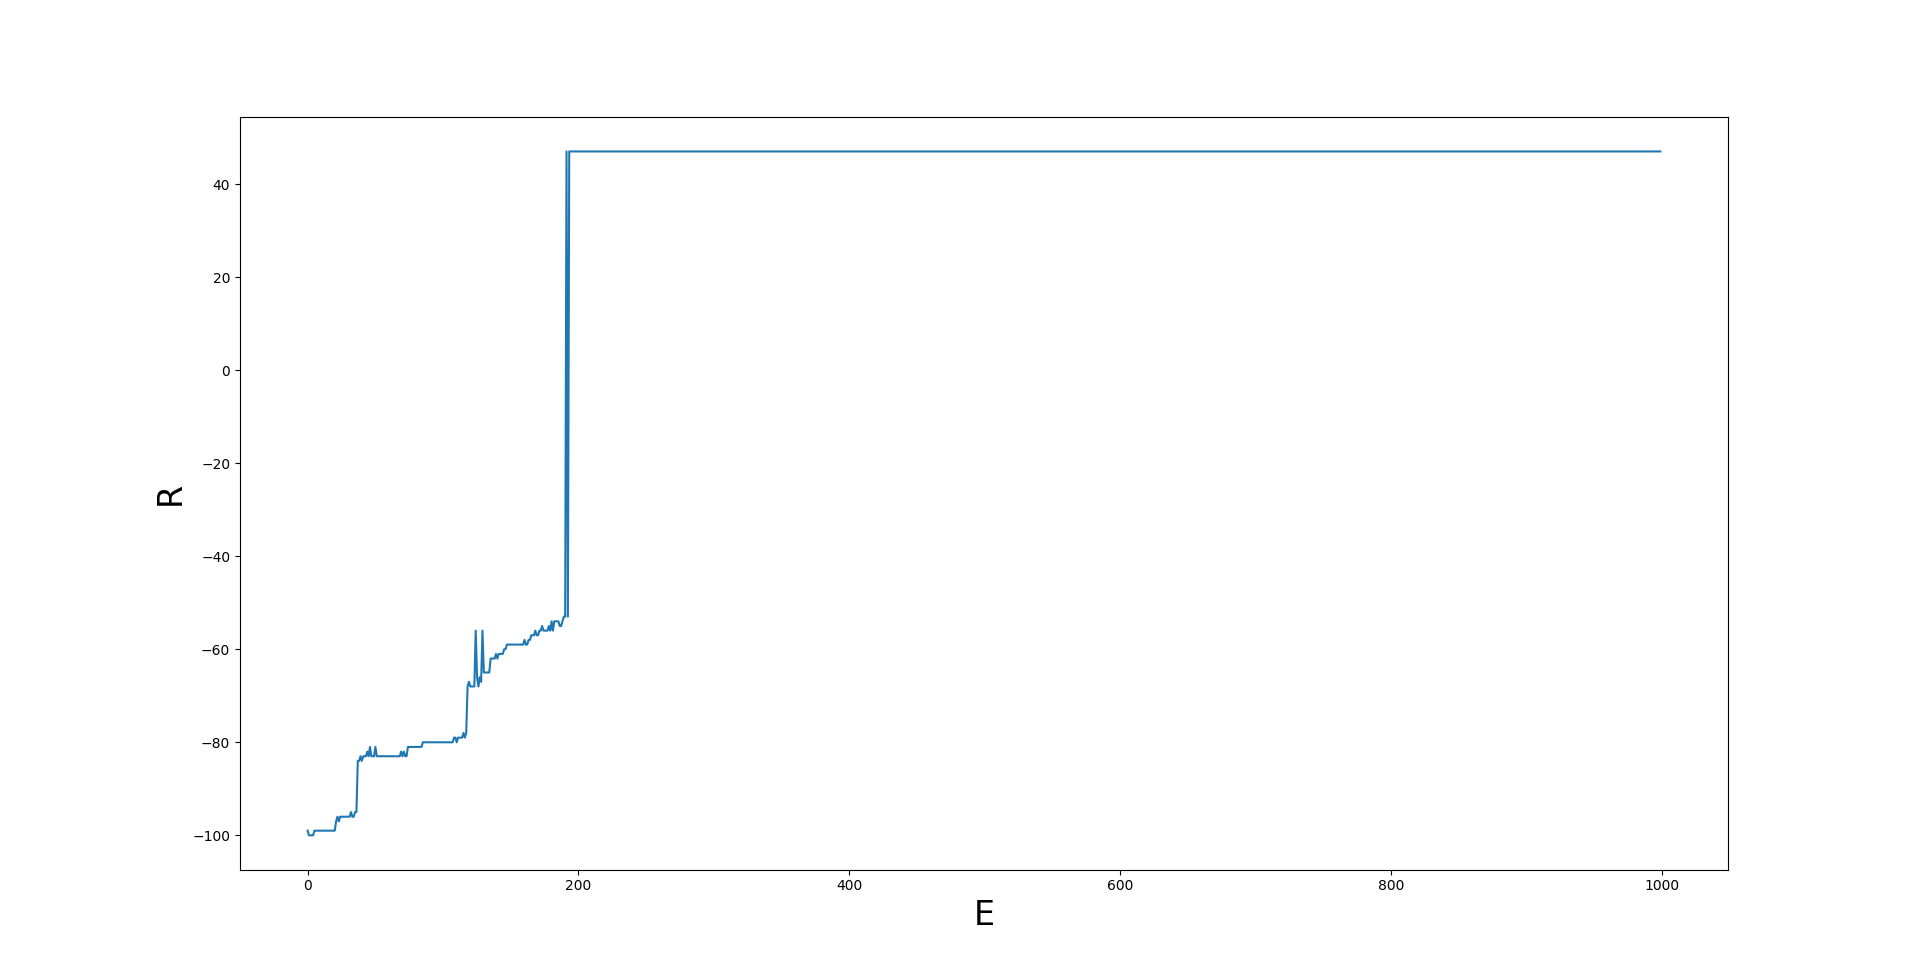
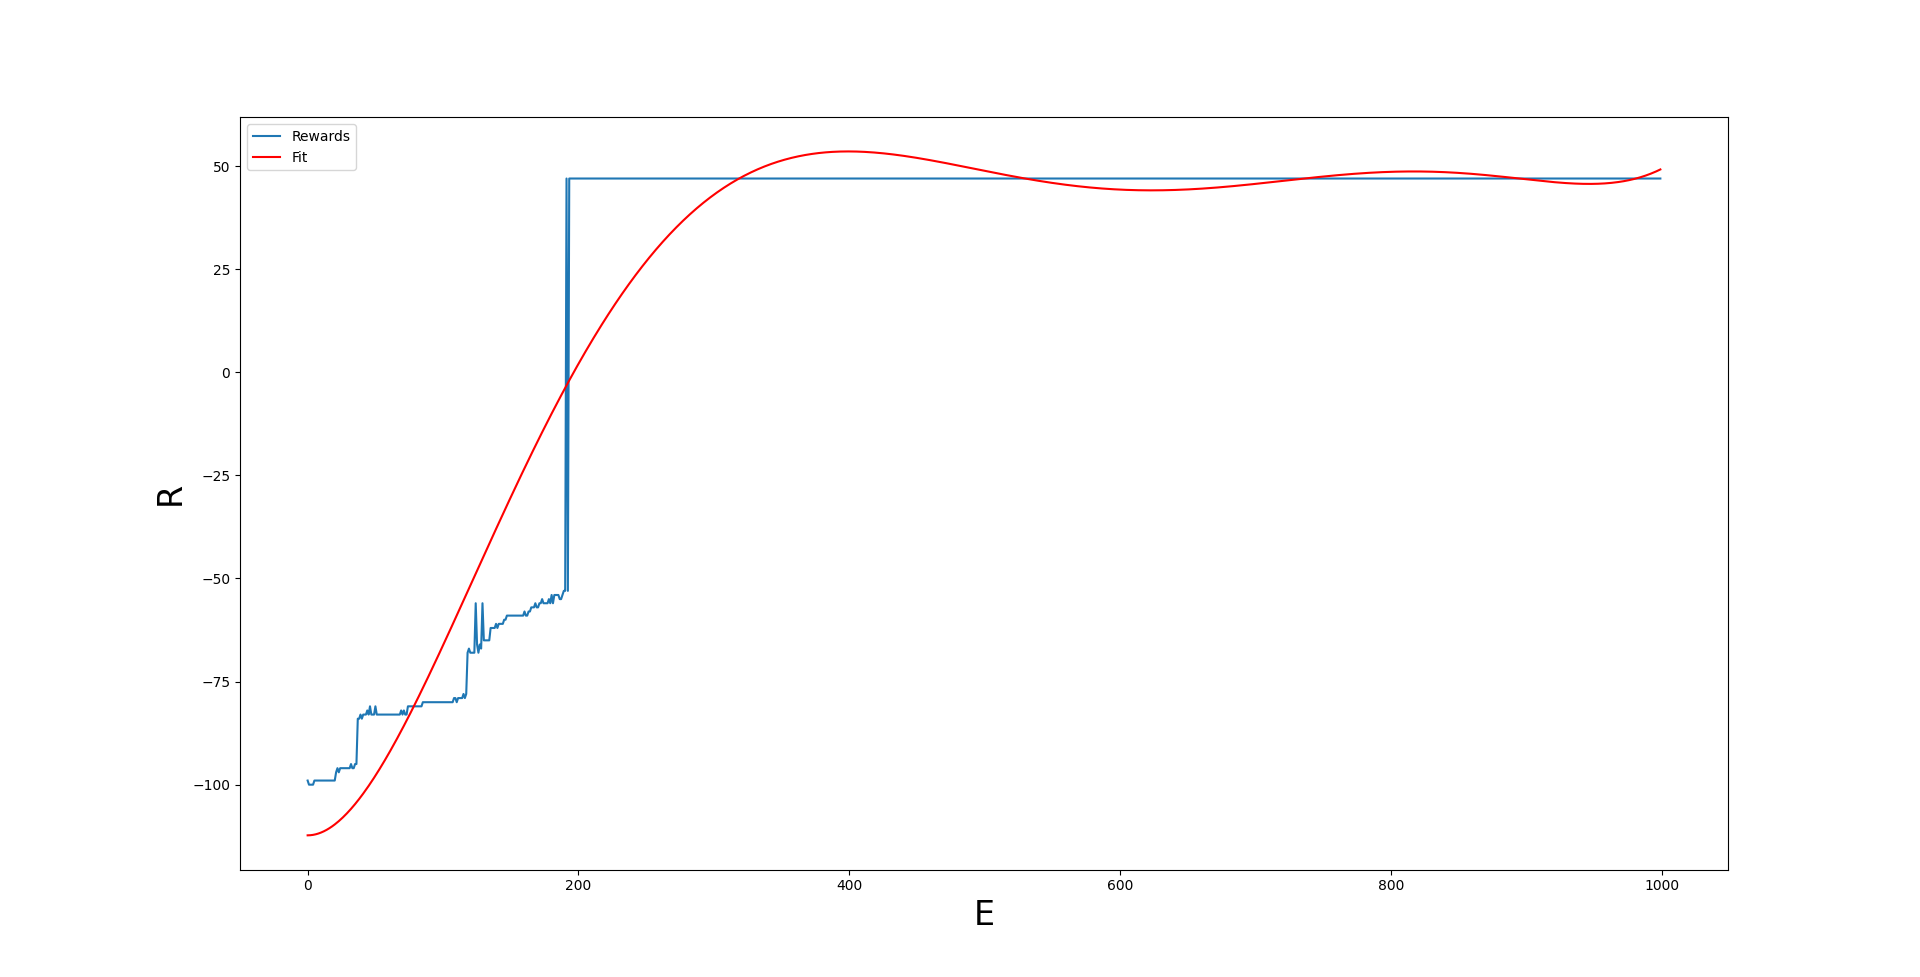
fixed figuresd

diff --git a/Problem B/plotGraphs.py b/Problem B/plotGraphs.py
@@ -1,8 +1,13 @@
+from datetime import time
 from matplotlib import pyplot as plt
 import numpy as np
 from numpy.core.fromnumeric import size
 import pandas as pd
-from scipy.signal import lfilter
+import operator
+
+from sklearn.linear_model import LinearRegression
+from sklearn.metrics import mean_squared_error, r2_score
+from sklearn.preprocessing import PolynomialFeatures
 
 
 def task1a():
@@ -11,10 +16,30 @@ def task1a():
     n_episodes = len(rewards)
     episodes = np.linspace(0,n_episodes, n_episodes)
 
-    plt.plot(episodes, rewards)
+    plt.plot(episodes, rewards, label="Rewards")
+
+    rewards = np.array(rewards).reshape((len(rewards)))
+
+    episodes = episodes[:, np.newaxis]
+    rewards = rewards[:, np.newaxis]
+
+    poly_feat = PolynomialFeatures(degree=6)
+    ep_poly = poly_feat.fit_transform(episodes)
+
+    model = LinearRegression()
+    model.fit(ep_poly, rewards)
+
+    reward_poly_pred = model.predict(ep_poly)
+
+    # sort the values of x before line plot
+    sort_axis = operator.itemgetter(0)
+    sorted_zip = sorted(zip(episodes,reward_poly_pred), key=sort_axis)
+    episodes, reward_poly_pred = zip(*sorted_zip)
+    plt.plot(episodes, reward_poly_pred, color='r', label="Fit")
 
     plt.xlabel('E', size=24)
     plt.ylabel('R', size=24)
+    plt.legend()
     plt.show()
 
 def task1b():
@@ -23,10 +48,30 @@ def task1b():
     n_episodes = len(rewards)
     episodes = np.linspace(0,n_episodes, n_episodes)
 
-    plt.plot(episodes, rewards)
-    
+    plt.plot(episodes, rewards, label="Rewards")
+
+    rewards = np.array(rewards).reshape((len(rewards)))
+
+    episodes = episodes[:, np.newaxis]
+    rewards = rewards[:, np.newaxis]
+
+    poly_feat = PolynomialFeatures(degree=4)
+    ep_poly = poly_feat.fit_transform(episodes)
+
+    model = LinearRegression()
+    model.fit(ep_poly, rewards)
+
+    reward_poly_pred = model.predict(ep_poly)
+
+    # sort the values of x before line plot
+    sort_axis = operator.itemgetter(0)
+    sorted_zip = sorted(zip(episodes,reward_poly_pred), key=sort_axis)
+    episodes, reward_poly_pred = zip(*sorted_zip)
+    plt.plot(episodes, reward_poly_pred, color='r', label="Fit")
+
     plt.xlabel('E', size=24)
     plt.ylabel('R', size=24)
+    plt.legend()
     plt.show()
 
 def task1c():
@@ -35,23 +80,32 @@ def task1c():
     n_episodes = len(rewards)
     episodes = np.linspace(0,n_episodes, n_episodes)
 
-    plt.plot(episodes, rewards)
+    plt.plot(episodes, rewards, label="Rewards")
+
+    rewards = np.array(rewards).reshape((len(rewards)))
+
+    episodes = episodes[:, np.newaxis]
+    rewards = rewards[:, np.newaxis]
+
+    poly_feat = PolynomialFeatures(degree=3)
+    ep_poly = poly_feat.fit_transform(episodes)
+
+    model = LinearRegression()
+    model.fit(ep_poly, rewards)
+
+    reward_poly_pred = model.predict(ep_poly)
+
+    # sort the values of x before line plot
+    sort_axis = operator.itemgetter(0)
+    sorted_zip = sorted(zip(episodes,reward_poly_pred), key=sort_axis)
+    episodes, reward_poly_pred = zip(*sorted_zip)
+    plt.plot(episodes, reward_poly_pred, color='r', label="Fit")
+
     plt.xlabel('E', size=24)
     plt.ylabel('R', size=24)
-    plt.show()
-
-def task1d():
-
-    rewards = pd.read_csv("Problem B\\Task 1\\1c.csv")
-    n_episodes = len(rewards)
-    episodes = np.linspace(0,n_episodes, n_episodes)
-
-    plt.plot(episodes, rewards)
-    plt.xlabel('E', size=24)
-    plt.ylabel('R', size=24)
+    plt.legend()
     plt.show()
 
 task1a()
 #task1b()
 #task1c()
-#task1d()
